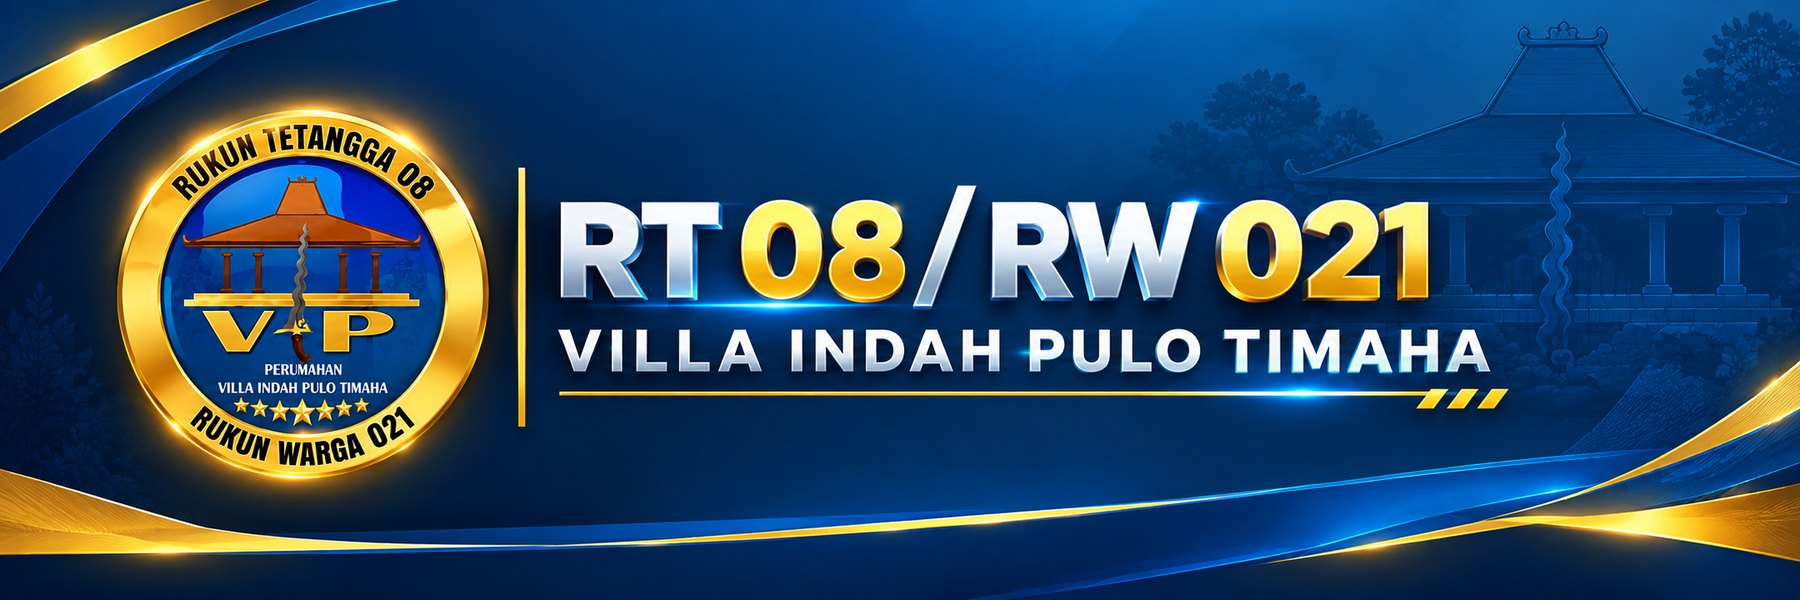
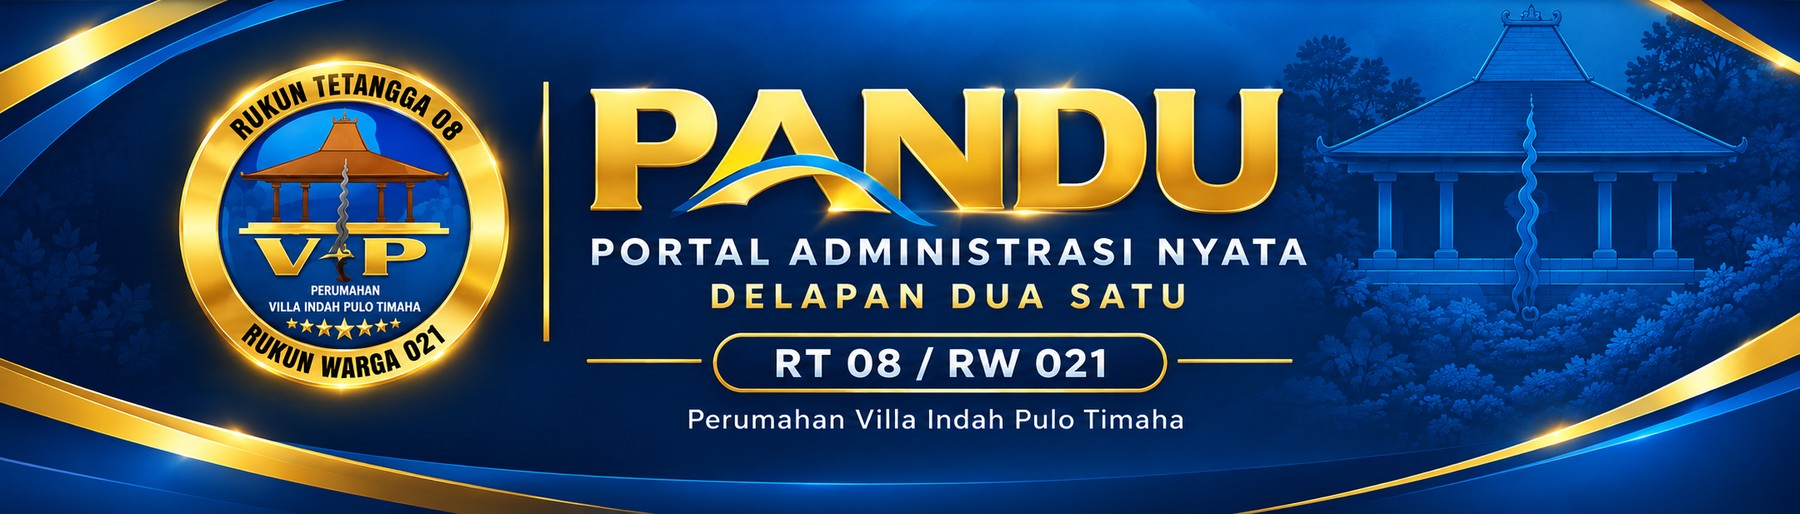
Add files via upload

diff --git a/livechat.html b/livechat.html
@@ -1,6 +1,6 @@
 <!DOCTYPE html><html lang="id"><head>
 <meta charset="UTF-8"><meta name="viewport" content="width=device-width,initial-scale=1"><meta name="theme-color" content="#123a6b"><link rel="apple-touch-icon" href="apple-touch-icon.png"><link rel="icon" type="image/png" href="assets/icon-192.png"><link rel="manifest" href="manifest.webmanifest"><meta name="apple-mobile-web-app-capable" content="yes"><meta name="mobile-web-app-capable" content="yes"><meta name="apple-mobile-web-app-title" content="RT08 Villa Indah"><meta name="apple-mobile-web-app-status-bar-style" content="black-translucent">
-<title>Live Chat | RT 08 Villa Indah Pulo Timaha</title><style>
+<title>Live Chat | PANDU</title><style>
 .chat-shell{background:#fff;border:1px solid var(--line);border-radius:26px;box-shadow:0 10px 30px rgba(10,25,56,.06);overflow:hidden;max-width:760px;margin:0 auto}
 .chat-setup{padding:18px 20px;background:linear-gradient(135deg,#f3f6fc,#eef1f9);border-bottom:1px solid var(--line);display:grid;gap:10px}
 .chat-setup .row2{display:grid;grid-template-columns:1fr 1fr;gap:10px}
@@ -346,7 +346,7 @@ radial-gradient(circle at 85% 20%,rgba(213,166,43,.12),transparent 18%),
 <span>🧹 Kerja Bakti • 30 Agustus 2026 • 07.00 WIB</span>
 <span>🎉 Malam Puncak • 19 September 2026 • Area E6 & E7</span>
 </div></div></div>
-<a class="header-banner" href="index.html"><img src="assets/header-banner.jpg" alt="RT 08 / RW 021 Villa Indah Pulo Timaha" loading="lazy"></a>
+<a class="header-banner" href="index.html"><img src="assets/header-banner.jpg" alt="PANDU - Portal Administrasi Nyata RT 08 / RW 021" loading="lazy"></a>
 <header class="site-header">
   <div class="container nav">
     <nav class="desktop-nav"><a class="" href="index.html">Beranda</a><a class="" href="informasi.html">Informasi</a><a class="" href="agenda.html">Agenda</a><a class="" href="layanan.html">Layanan</a><a class="" href="transparansi.html">Transparansi</a><a class="" href="umkm.html">UMKM</a><a class="" href="galeri.html">Galeri</a><a class="" href="kontak.html">Kontak</a><a class="active" href="livechat.html">💬 Live Chat</a><a class="nav-cta" href="layanan.html#lapor">🚨 Lapor</a></nav>
@@ -384,7 +384,7 @@ radial-gradient(circle at 85% 20%,rgba(213,166,43,.12),transparent 18%),
     <input id="chatInput" placeholder="Tulis pesan..." autocomplete="off">
     <button class="chat-send" id="chatSend" title="Kirim">➤</button>
   </div>
-  <div class="chat-foot-note">🤖 Pertanyaan umum (iuran, kontak pengurus, cara lapor, agenda terdekat, dll) dijawab instan oleh Asisten AI Portal RT08 secara gratis. Pertanyaan lain otomatis diteruskan dan akan dibalas langsung oleh Admin RT.</div>
+  <div class="chat-foot-note">🤖 Pertanyaan umum (iuran, kontak pengurus, cara lapor, agenda terdekat, dll) dijawab instan oleh Asisten AI PANDU secara gratis. Pertanyaan lain otomatis diteruskan dan akan dibalas langsung oleh Admin RT.</div>
 </div>
 
 </div></section>
@@ -547,7 +547,7 @@ document.addEventListener("DOMContentLoaded", function(){
     }
 
     if(cocok_(t, ["halo","hai","assalam","pagi","siang","sore","malam admin"])){
-      balas("Halo! 👋 Saya Asisten AI Portal RT08. Ada yang bisa saya bantu? Kamu juga bisa langsung tanya soal iuran, kontak pengurus, cara lapor, atau agenda terdekat.");
+      balas("Halo! 👋 Saya Asisten AI PANDU. Ada yang bisa saya bantu? Kamu juga bisa langsung tanya soal iuran, kontak pengurus, cara lapor, atau agenda terdekat.");
     } else if(cocok_(t, ["terima kasih","makasih","thanks","thx"])){
       balas("Sama-sama! 🙏 Kalau masih ada yang perlu dibantu, tulis saja di sini ya.");
     } else if(cocok_(t, ["iuran","bayar bulanan","kas bulanan"])){

diff --git a/index.html b/index.html
@@ -1,6 +1,6 @@
 <!DOCTYPE html><html lang="id"><head>
 <meta charset="UTF-8"><meta name="viewport" content="width=device-width,initial-scale=1"><meta name="theme-color" content="#123a6b"><link rel="apple-touch-icon" href="apple-touch-icon.png"><link rel="icon" type="image/png" href="assets/icon-192.png"><link rel="manifest" href="manifest.webmanifest"><meta name="apple-mobile-web-app-capable" content="yes"><meta name="mobile-web-app-capable" content="yes"><meta name="apple-mobile-web-app-title" content="RT08 Villa Indah"><meta name="apple-mobile-web-app-status-bar-style" content="black-translucent">
-<title>Beranda | RT 08 Villa Indah Pulo Timaha</title><style>
+<title>Beranda | PANDU</title><style>
 :root{
   --green:#123a6b;
   --green2:#1c4a86;
@@ -356,7 +356,7 @@ body.bumper-lock{overflow:hidden}
 </style>
 </head><body>
 <div class="bumper" id="bumper">
-  <img src="assets/bumper-intro.jpg" alt="Selamat Datang di Portal RT 08 / RW 021 Villa Indah Pulo Timaha">
+  <img src="assets/bumper-intro.jpg" alt="PANDU - Portal Administrasi Nyata Delapan Dua Satu">
   <div class="bumper-hint">Ketuk layar untuk melanjutkan</div>
 </div>
 <div class="ticker"><div class="container"><div class="ticker-track">
@@ -367,7 +367,7 @@ body.bumper-lock{overflow:hidden}
 <span>🧹 Kerja Bakti • 30 Agustus 2026 • 07.00 WIB</span>
 <span>🎉 Malam Puncak • 19 September 2026 • Area E6 & E7</span>
 </div></div></div>
-<a class="header-banner" href="index.html"><img src="assets/header-banner.jpg" alt="RT 08 / RW 021 Villa Indah Pulo Timaha" loading="lazy"></a>
+<a class="header-banner" href="index.html"><img src="assets/header-banner.jpg" alt="PANDU - Portal Administrasi Nyata RT 08 / RW 021" loading="lazy"></a>
 <header class="site-header">
   <div class="container nav">
     <nav class="desktop-nav"><a class="active" href="index.html">Beranda</a><a class="" href="informasi.html">Informasi</a><a class="" href="agenda.html">Agenda</a><a class="" href="layanan.html">Layanan</a><a class="" href="transparansi.html">Transparansi</a><a class="" href="umkm.html">UMKM</a><a class="" href="galeri.html">Galeri</a><a class="" href="kontak.html">Kontak</a><a class="" href="livechat.html">💬 Live Chat</a><a class="nav-cta" href="layanan.html#lapor">🚨 Lapor</a></nav>
@@ -377,7 +377,7 @@ body.bumper-lock{overflow:hidden}
 <section class="hero"><div class="hero-glow"></div>
 <div class="container hero-grid">
   <div>
-    <span class="kicker">● APLIKASI WARGA RT 08 / RW 021</span>
+    <span class="kicker">● PANDU • RT 08 / RW 021</span>
     <h1>RT 08<br>lebih dekat<br>dengan warganya.</h1>
     <p>Informasi, layanan, agenda, kas, UMKM, dan berbagai kebutuhan warga tersedia dalam satu portal.</p>
     <div class="hero-actions"><a class="btn btn-light" href="informasi.html">📢 Info Terbaru</a><a class="btn btn-outline" href="layanan.html">📝 Layanan Warga</a></div>
@@ -391,7 +391,7 @@ body.bumper-lock{overflow:hidden}
         <div class="board-stat"><strong id="statAgenda">—</strong><span>Agenda Aktif</span></div>
         <div class="board-stat"><strong id="statInfo">—</strong><span>Pengumuman</span></div>
       </div>
-    </div><div class="quick-floating">✨ Portal Warga Modern</div>
+    </div><div class="quick-floating">✨ PANDU</div>
   </div>
 </div>
 </section>

diff --git a/berita.html b/berita.html
@@ -1,6 +1,6 @@
 <!DOCTYPE html><html lang="id"><head>
 <meta charset="UTF-8"><meta name="viewport" content="width=device-width,initial-scale=1"><meta name="theme-color" content="#123a6b"><link rel="apple-touch-icon" href="apple-touch-icon.png"><link rel="icon" type="image/png" href="assets/icon-192.png"><link rel="manifest" href="manifest.webmanifest"><meta name="apple-mobile-web-app-capable" content="yes"><meta name="mobile-web-app-capable" content="yes"><meta name="apple-mobile-web-app-title" content="RT08 Villa Indah"><meta name="apple-mobile-web-app-status-bar-style" content="black-translucent">
-<title>Berita Seputar Bekasi | RT 08 Villa Indah Pulo Timaha</title><style>
+<title>Berita Seputar Bekasi | PANDU</title><style>
 :root{
   --green:#123a6b;
   --green2:#1c4a86;
@@ -365,7 +365,7 @@ radial-gradient(circle at 85% 20%,rgba(213,166,43,.12),transparent 18%),
 <span>🧹 Kerja Bakti • 30 Agustus 2026 • 07.00 WIB</span>
 <span>🎉 Malam Puncak • 19 September 2026 • Area E6 & E7</span>
 </div></div></div>
-<a class="header-banner" href="index.html"><img src="assets/header-banner.jpg" alt="RT 08 / RW 021 Villa Indah Pulo Timaha" loading="lazy"></a>
+<a class="header-banner" href="index.html"><img src="assets/header-banner.jpg" alt="PANDU - Portal Administrasi Nyata RT 08 / RW 021" loading="lazy"></a>
 <header class="site-header">
   <div class="container nav">
     <nav class="desktop-nav"><a class="" href="index.html">Beranda</a><a class="" href="informasi.html">Informasi</a><a class="" href="agenda.html">Agenda</a><a class="" href="layanan.html">Layanan</a><a class="" href="transparansi.html">Transparansi</a><a class="" href="umkm.html">UMKM</a><a class="" href="galeri.html">Galeri</a><a class="" href="kontak.html">Kontak</a><a class="" href="livechat.html">💬 Live Chat</a><a class="nav-cta" href="layanan.html#lapor">🚨 Lapor</a></nav>

diff --git a/layanan.html b/layanan.html
@@ -1,6 +1,6 @@
 <!DOCTYPE html><html lang="id"><head>
 <meta charset="UTF-8"><meta name="viewport" content="width=device-width,initial-scale=1"><meta name="theme-color" content="#123a6b"><link rel="apple-touch-icon" href="apple-touch-icon.png"><link rel="icon" type="image/png" href="assets/icon-192.png"><link rel="manifest" href="manifest.webmanifest"><meta name="apple-mobile-web-app-capable" content="yes"><meta name="mobile-web-app-capable" content="yes"><meta name="apple-mobile-web-app-title" content="RT08 Villa Indah"><meta name="apple-mobile-web-app-status-bar-style" content="black-translucent">
-<title>Layanan Warga | RT 08 Villa Indah Pulo Timaha</title><style>
+<title>Layanan Warga | PANDU</title><style>
 :root{
   --green:#123a6b;
   --green2:#1c4a86;
@@ -333,7 +333,7 @@ radial-gradient(circle at 85% 20%,rgba(213,166,43,.12),transparent 18%),
 <span>🧹 Kerja Bakti • 30 Agustus 2026 • 07.00 WIB</span>
 <span>🎉 Malam Puncak • 19 September 2026 • Area E6 & E7</span>
 </div></div></div>
-<a class="header-banner" href="index.html"><img src="assets/header-banner.jpg" alt="RT 08 / RW 021 Villa Indah Pulo Timaha" loading="lazy"></a>
+<a class="header-banner" href="index.html"><img src="assets/header-banner.jpg" alt="PANDU - Portal Administrasi Nyata RT 08 / RW 021" loading="lazy"></a>
 <header class="site-header">
   <div class="container nav">
     <nav class="desktop-nav"><a class="" href="index.html">Beranda</a><a class="" href="informasi.html">Informasi</a><a class="" href="agenda.html">Agenda</a><a class="active" href="layanan.html">Layanan</a><a class="" href="transparansi.html">Transparansi</a><a class="" href="umkm.html">UMKM</a><a class="" href="galeri.html">Galeri</a><a class="" href="kontak.html">Kontak</a><a class="" href="livechat.html">💬 Live Chat</a><a class="nav-cta" href="layanan.html#lapor">🚨 Lapor</a></nav>

diff --git a/transparansi.html b/transparansi.html
@@ -1,6 +1,6 @@
 <!DOCTYPE html><html lang="id"><head>
 <meta charset="UTF-8"><meta name="viewport" content="width=device-width,initial-scale=1"><meta name="theme-color" content="#123a6b"><link rel="apple-touch-icon" href="apple-touch-icon.png"><link rel="icon" type="image/png" href="assets/icon-192.png"><link rel="manifest" href="manifest.webmanifest"><meta name="apple-mobile-web-app-capable" content="yes"><meta name="mobile-web-app-capable" content="yes"><meta name="apple-mobile-web-app-title" content="RT08 Villa Indah"><meta name="apple-mobile-web-app-status-bar-style" content="black-translucent">
-<title>Transparansi | RT 08 Villa Indah Pulo Timaha</title><style>
+<title>Transparansi | PANDU</title><style>
 :root{
   --green:#123a6b;
   --green2:#1c4a86;
@@ -313,7 +313,7 @@ radial-gradient(circle at 85% 20%,rgba(213,166,43,.12),transparent 18%),
 <span>🧹 Kerja Bakti • 30 Agustus 2026 • 07.00 WIB</span>
 <span>🎉 Malam Puncak • 19 September 2026 • Area E6 & E7</span>
 </div></div></div>
-<a class="header-banner" href="index.html"><img src="assets/header-banner.jpg" alt="RT 08 / RW 021 Villa Indah Pulo Timaha" loading="lazy"></a>
+<a class="header-banner" href="index.html"><img src="assets/header-banner.jpg" alt="PANDU - Portal Administrasi Nyata RT 08 / RW 021" loading="lazy"></a>
 <header class="site-header">
   <div class="container nav">
     <nav class="desktop-nav"><a class="" href="index.html">Beranda</a><a class="" href="informasi.html">Informasi</a><a class="" href="agenda.html">Agenda</a><a class="" href="layanan.html">Layanan</a><a class="active" href="transparansi.html">Transparansi</a><a class="" href="umkm.html">UMKM</a><a class="" href="galeri.html">Galeri</a><a class="" href="kontak.html">Kontak</a><a class="" href="livechat.html">💬 Live Chat</a><a class="nav-cta" href="layanan.html#lapor">🚨 Lapor</a></nav>

diff --git a/informasi.html b/informasi.html
@@ -1,6 +1,6 @@
 <!DOCTYPE html><html lang="id"><head>
 <meta charset="UTF-8"><meta name="viewport" content="width=device-width,initial-scale=1"><meta name="theme-color" content="#123a6b"><link rel="apple-touch-icon" href="apple-touch-icon.png"><link rel="icon" type="image/png" href="assets/icon-192.png"><link rel="manifest" href="manifest.webmanifest"><meta name="apple-mobile-web-app-capable" content="yes"><meta name="mobile-web-app-capable" content="yes"><meta name="apple-mobile-web-app-title" content="RT08 Villa Indah"><meta name="apple-mobile-web-app-status-bar-style" content="black-translucent">
-<title>Informasi | RT 08 Villa Indah Pulo Timaha</title><style>
+<title>Informasi | PANDU</title><style>
 :root{
   --green:#123a6b;
   --green2:#1c4a86;
@@ -337,7 +337,7 @@ radial-gradient(circle at 85% 20%,rgba(213,166,43,.12),transparent 18%),
 <span>🧹 Kerja Bakti • 30 Agustus 2026 • 07.00 WIB</span>
 <span>🎉 Malam Puncak • 19 September 2026 • Area E6 & E7</span>
 </div></div></div>
-<a class="header-banner" href="index.html"><img src="assets/header-banner.jpg" alt="RT 08 / RW 021 Villa Indah Pulo Timaha" loading="lazy"></a>
+<a class="header-banner" href="index.html"><img src="assets/header-banner.jpg" alt="PANDU - Portal Administrasi Nyata RT 08 / RW 021" loading="lazy"></a>
 <header class="site-header">
   <div class="container nav">
     <nav class="desktop-nav"><a class="" href="index.html">Beranda</a><a class="active" href="informasi.html">Informasi</a><a class="" href="agenda.html">Agenda</a><a class="" href="layanan.html">Layanan</a><a class="" href="transparansi.html">Transparansi</a><a class="" href="umkm.html">UMKM</a><a class="" href="galeri.html">Galeri</a><a class="" href="kontak.html">Kontak</a><a class="" href="livechat.html">💬 Live Chat</a><a class="nav-cta" href="layanan.html#lapor">🚨 Lapor</a></nav>

diff --git a/agenda.html b/agenda.html
@@ -1,6 +1,6 @@
 <!DOCTYPE html><html lang="id"><head>
 <meta charset="UTF-8"><meta name="viewport" content="width=device-width,initial-scale=1"><meta name="theme-color" content="#123a6b"><link rel="apple-touch-icon" href="apple-touch-icon.png"><link rel="icon" type="image/png" href="assets/icon-192.png"><link rel="manifest" href="manifest.webmanifest"><meta name="apple-mobile-web-app-capable" content="yes"><meta name="mobile-web-app-capable" content="yes"><meta name="apple-mobile-web-app-title" content="RT08 Villa Indah"><meta name="apple-mobile-web-app-status-bar-style" content="black-translucent">
-<title>Agenda | RT 08 Villa Indah Pulo Timaha</title><style>
+<title>Agenda | PANDU</title><style>
 :root{
   --green:#123a6b;
   --green2:#1c4a86;
@@ -312,7 +312,7 @@ radial-gradient(circle at 85% 20%,rgba(213,166,43,.12),transparent 18%),
 <span>🧹 Kerja Bakti • 30 Agustus 2026 • 07.00 WIB</span>
 <span>🎉 Malam Puncak • 19 September 2026 • Area E6 & E7</span>
 </div></div></div>
-<a class="header-banner" href="index.html"><img src="assets/header-banner.jpg" alt="RT 08 / RW 021 Villa Indah Pulo Timaha" loading="lazy"></a>
+<a class="header-banner" href="index.html"><img src="assets/header-banner.jpg" alt="PANDU - Portal Administrasi Nyata RT 08 / RW 021" loading="lazy"></a>
 <header class="site-header">
   <div class="container nav">
     <nav class="desktop-nav"><a class="" href="index.html">Beranda</a><a class="" href="informasi.html">Informasi</a><a class="active" href="agenda.html">Agenda</a><a class="" href="layanan.html">Layanan</a><a class="" href="transparansi.html">Transparansi</a><a class="" href="umkm.html">UMKM</a><a class="" href="galeri.html">Galeri</a><a class="" href="kontak.html">Kontak</a><a class="" href="livechat.html">💬 Live Chat</a><a class="nav-cta" href="layanan.html#lapor">🚨 Lapor</a></nav>

diff --git a/galeri.html b/galeri.html
@@ -1,6 +1,6 @@
 <!DOCTYPE html><html lang="id"><head>
 <meta charset="UTF-8"><meta name="viewport" content="width=device-width,initial-scale=1"><meta name="theme-color" content="#123a6b"><link rel="apple-touch-icon" href="apple-touch-icon.png"><link rel="icon" type="image/png" href="assets/icon-192.png"><link rel="manifest" href="manifest.webmanifest"><meta name="apple-mobile-web-app-capable" content="yes"><meta name="mobile-web-app-capable" content="yes"><meta name="apple-mobile-web-app-title" content="RT08 Villa Indah"><meta name="apple-mobile-web-app-status-bar-style" content="black-translucent">
-<title>Galeri | RT 08 Villa Indah Pulo Timaha</title><style>
+<title>Galeri | PANDU</title><style>
 :root{
   --green:#123a6b;
   --green2:#1c4a86;
@@ -315,7 +315,7 @@ radial-gradient(circle at 85% 20%,rgba(213,166,43,.12),transparent 18%),
 <span>🧹 Kerja Bakti • 30 Agustus 2026 • 07.00 WIB</span>
 <span>🎉 Malam Puncak • 19 September 2026 • Area E6 & E7</span>
 </div></div></div>
-<a class="header-banner" href="index.html"><img src="assets/header-banner.jpg" alt="RT 08 / RW 021 Villa Indah Pulo Timaha" loading="lazy"></a>
+<a class="header-banner" href="index.html"><img src="assets/header-banner.jpg" alt="PANDU - Portal Administrasi Nyata RT 08 / RW 021" loading="lazy"></a>
 <header class="site-header">
   <div class="container nav">
     <nav class="desktop-nav"><a class="" href="index.html">Beranda</a><a class="" href="informasi.html">Informasi</a><a class="" href="agenda.html">Agenda</a><a class="" href="layanan.html">Layanan</a><a class="" href="transparansi.html">Transparansi</a><a class="" href="umkm.html">UMKM</a><a class="active" href="galeri.html">Galeri</a><a class="" href="kontak.html">Kontak</a><a class="" href="livechat.html">💬 Live Chat</a><a class="nav-cta" href="layanan.html#lapor">🚨 Lapor</a></nav>

diff --git a/kontak.html b/kontak.html
@@ -1,6 +1,6 @@
 <!DOCTYPE html><html lang="id"><head>
 <meta charset="UTF-8"><meta name="viewport" content="width=device-width,initial-scale=1"><meta name="theme-color" content="#123a6b"><link rel="apple-touch-icon" href="apple-touch-icon.png"><link rel="icon" type="image/png" href="assets/icon-192.png"><link rel="manifest" href="manifest.webmanifest"><meta name="apple-mobile-web-app-capable" content="yes"><meta name="mobile-web-app-capable" content="yes"><meta name="apple-mobile-web-app-title" content="RT08 Villa Indah"><meta name="apple-mobile-web-app-status-bar-style" content="black-translucent">
-<title>Kontak | RT 08 Villa Indah Pulo Timaha</title><style>
+<title>Kontak | PANDU</title><style>
 :root{
   --green:#123a6b;
   --green2:#1c4a86;
@@ -313,7 +313,7 @@ radial-gradient(circle at 85% 20%,rgba(213,166,43,.12),transparent 18%),
 <span>🧹 Kerja Bakti • 30 Agustus 2026 • 07.00 WIB</span>
 <span>🎉 Malam Puncak • 19 September 2026 • Area E6 & E7</span>
 </div></div></div>
-<a class="header-banner" href="index.html"><img src="assets/header-banner.jpg" alt="RT 08 / RW 021 Villa Indah Pulo Timaha" loading="lazy"></a>
+<a class="header-banner" href="index.html"><img src="assets/header-banner.jpg" alt="PANDU - Portal Administrasi Nyata RT 08 / RW 021" loading="lazy"></a>
 <header class="site-header">
   <div class="container nav">
     <nav class="desktop-nav"><a class="" href="index.html">Beranda</a><a class="" href="informasi.html">Informasi</a><a class="" href="agenda.html">Agenda</a><a class="" href="layanan.html">Layanan</a><a class="" href="transparansi.html">Transparansi</a><a class="" href="umkm.html">UMKM</a><a class="" href="galeri.html">Galeri</a><a class="active" href="kontak.html">Kontak</a><a class="" href="livechat.html">💬 Live Chat</a><a class="nav-cta" href="layanan.html#lapor">🚨 Lapor</a></nav>

diff --git a/umkm.html b/umkm.html
@@ -1,6 +1,6 @@
 <!DOCTYPE html><html lang="id"><head>
 <meta charset="UTF-8"><meta name="viewport" content="width=device-width,initial-scale=1"><meta name="theme-color" content="#123a6b"><link rel="apple-touch-icon" href="apple-touch-icon.png"><link rel="icon" type="image/png" href="assets/icon-192.png"><link rel="manifest" href="manifest.webmanifest"><meta name="apple-mobile-web-app-capable" content="yes"><meta name="mobile-web-app-capable" content="yes"><meta name="apple-mobile-web-app-title" content="RT08 Villa Indah"><meta name="apple-mobile-web-app-status-bar-style" content="black-translucent">
-<title>UMKM | RT 08 Villa Indah Pulo Timaha</title><style>
+<title>UMKM | PANDU</title><style>
 :root{
   --green:#123a6b;
   --green2:#1c4a86;
@@ -336,7 +336,7 @@ radial-gradient(circle at 85% 20%,rgba(213,166,43,.12),transparent 18%),
 <span>🧹 Kerja Bakti • 30 Agustus 2026 • 07.00 WIB</span>
 <span>🎉 Malam Puncak • 19 September 2026 • Area E6 & E7</span>
 </div></div></div>
-<a class="header-banner" href="index.html"><img src="assets/header-banner.jpg" alt="RT 08 / RW 021 Villa Indah Pulo Timaha" loading="lazy"></a>
+<a class="header-banner" href="index.html"><img src="assets/header-banner.jpg" alt="PANDU - Portal Administrasi Nyata RT 08 / RW 021" loading="lazy"></a>
 <header class="site-header">
   <div class="container nav">
     <nav class="desktop-nav"><a class="" href="index.html">Beranda</a><a class="" href="informasi.html">Informasi</a><a class="" href="agenda.html">Agenda</a><a class="" href="layanan.html">Layanan</a><a class="" href="transparansi.html">Transparansi</a><a class="active" href="umkm.html">UMKM</a><a class="" href="galeri.html">Galeri</a><a class="" href="kontak.html">Kontak</a><a class="" href="livechat.html">💬 Live Chat</a><a class="nav-cta" href="layanan.html#lapor">🚨 Lapor</a></nav>

diff --git a/daftar-hadir.html b/daftar-hadir.html
@@ -1,6 +1,6 @@
 <!DOCTYPE html><html lang="id"><head>
 <meta charset="UTF-8"><meta name="viewport" content="width=device-width,initial-scale=1"><meta name="theme-color" content="#123a6b"><link rel="apple-touch-icon" href="apple-touch-icon.png"><link rel="icon" type="image/png" href="assets/icon-192.png"><link rel="manifest" href="manifest.webmanifest"><meta name="apple-mobile-web-app-capable" content="yes"><meta name="mobile-web-app-capable" content="yes"><meta name="apple-mobile-web-app-title" content="RT08 Villa Indah"><meta name="apple-mobile-web-app-status-bar-style" content="black-translucent">
-<title>Daftar Hadir & Doorprize | RT 08 Villa Indah Pulo Timaha</title><style>
+<title>Daftar Hadir & Doorprize | PANDU</title><style>
 :root{
   --green:#123a6b;
   --green2:#1c4a86;
@@ -126,7 +126,7 @@ input:focus{border-color:#7d9fd6;box-shadow:0 0 0 4px rgba(18,58,107,.08)}
 }
 </style>
 </head><body>
-<a class="header-banner" href="index.html"><img src="assets/header-banner.jpg" alt="RT 08 / RW 021 Villa Indah Pulo Timaha" loading="lazy"></a>
+<a class="header-banner" href="index.html"><img src="assets/header-banner.jpg" alt="PANDU - Portal Administrasi Nyata RT 08 / RW 021" loading="lazy"></a>
 <header class="site-header">
   <div class="container nav">
     <a class="back-link" href="index.html">← Beranda</a>

diff --git a/admin.html b/admin.html
@@ -1,7 +1,7 @@
 <!DOCTYPE html><html lang="id"><head>
 <meta charset="UTF-8"><meta name="viewport" content="width=device-width,initial-scale=1"><meta name="theme-color" content="#123a6b"><link rel="apple-touch-icon" href="apple-touch-icon.png"><link rel="icon" type="image/png" href="assets/icon-192.png"><link rel="manifest" href="manifest.webmanifest"><meta name="apple-mobile-web-app-capable" content="yes"><meta name="mobile-web-app-capable" content="yes"><meta name="apple-mobile-web-app-title" content="RT08 Villa Indah"><meta name="apple-mobile-web-app-status-bar-style" content="black-translucent">
 <meta name="robots" content="noindex,nofollow">
-<title>Admin | RT 08 Villa Indah Pulo Timaha</title><style>
+<title>Admin | PANDU</title><style>
 :root{
   --green:#123a6b;
   --green2:#1c4a86;
@@ -1642,7 +1642,7 @@ function initDashboard_(){
     var totalRumah = rumahList.length;
 
     var judul = "LAPORAN KEUANGAN RT 08 / RW 021 VILLA INDAH PULO TIMAHA";
-    var wb = new ExcelJS.Workbook(); wb.creator = "Portal RT 08 Villa Indah"; wb.created = new Date();
+    var wb = new ExcelJS.Workbook(); wb.creator = "PANDU RT 08 Villa Indah"; wb.created = new Date();
     var n, ws;
 
     /* 1. Ringkasan */
